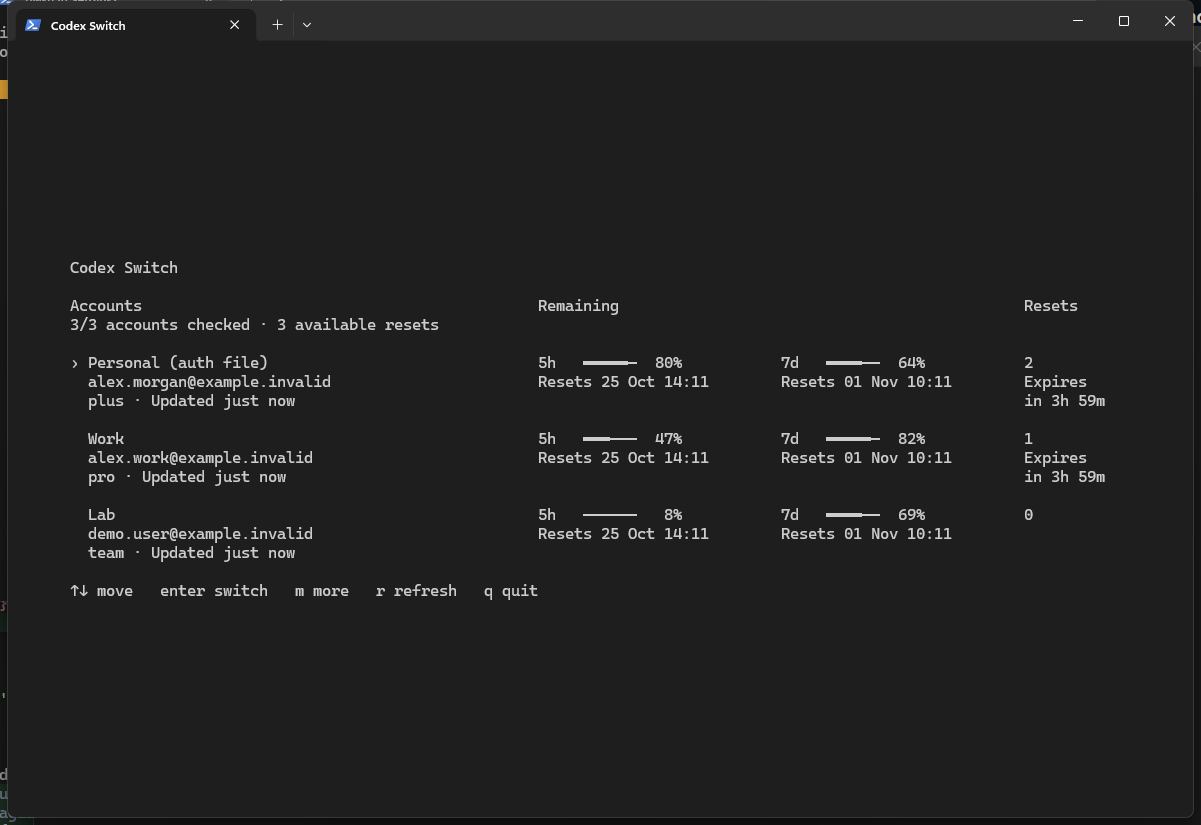
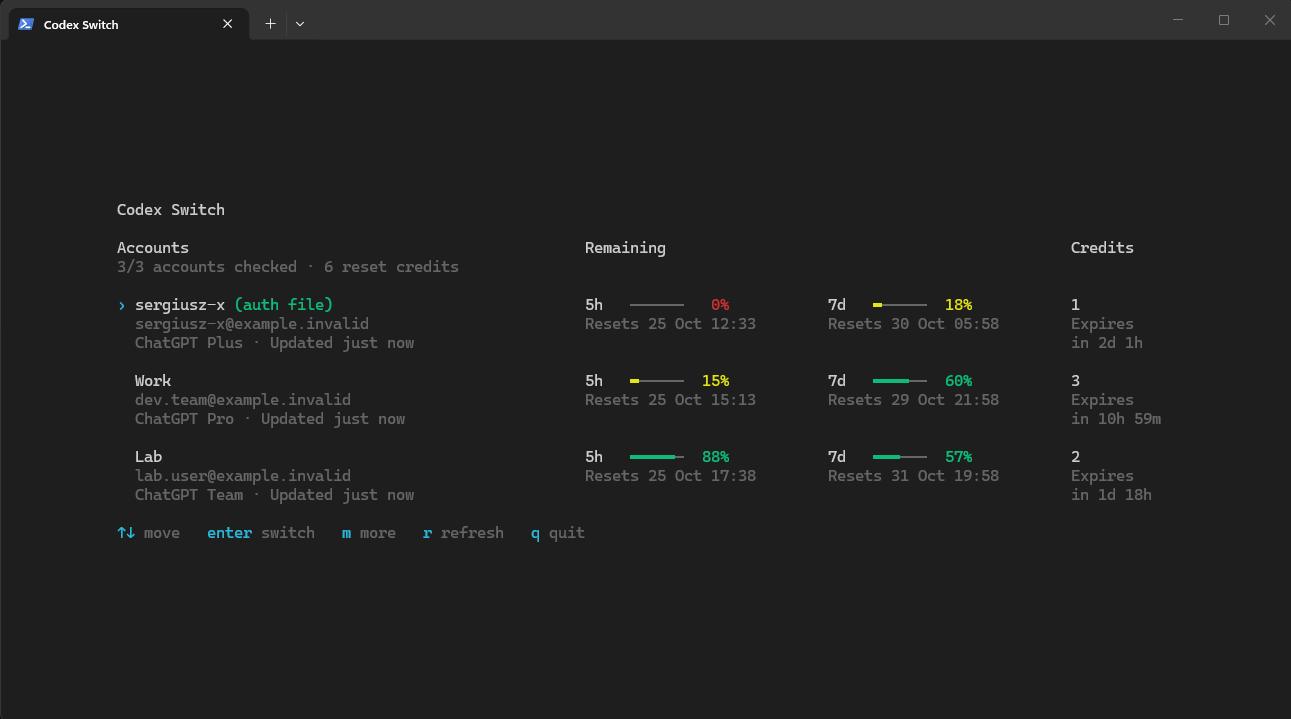
fix: clarify usage reset credits and refresh CLI screenshots
Clarifies quota reset times and credits, refreshes CLI screenshots, and enables the release workflow to push through a narrowly scoped repository deploy key.

diff --git a/internal/tui/usage.go b/internal/tui/usage.go
@@ -55,7 +55,7 @@ func (m *model) renderUsageDetail(width int) string {
 	}
 	rows = append(rows, "")
 	if result.ResetCountKnown {
-		rows = append(rows, lipgloss.NewStyle().Bold(true).Render(fmt.Sprintf("Available resets · %d", result.ResetCount)))
+		rows = append(rows, lipgloss.NewStyle().Bold(true).Render(fmt.Sprintf("Reset credits · %d", result.ResetCount)))
 		if !result.ResetDetailsKnown {
 			rows = append(rows, muted.Render("Reset details are unavailable."))
 		} else if len(result.Resets) == 0 {
@@ -82,7 +82,7 @@ func (m *model) renderUsageDetail(width int) string {
 			}
 		}
 	} else {
-		rows = append(rows, lipgloss.NewStyle().Bold(true).Render("Available resets"), muted.Render("Count unavailable."))
+		rows = append(rows, lipgloss.NewStyle().Bold(true).Render("Reset credits"), muted.Render("Count unavailable."))
 	}
 	if !result.UpdatedAt.IsZero() {
 		zone := time.Now().Format("MST -07:00")
@@ -143,7 +143,7 @@ func (m *model) renderDashboard(width, height int) string {
 		accountWidth := width - 66
 		header = lipgloss.JoinHorizontal(lipgloss.Top,
 			usageCell("Accounts", accountWidth), "  ",
-			usageCell("Remaining", 52), "  ", usageCell("Resets", 10))
+			usageCell("Remaining", 52), "  ", usageCell("Credits", 10))
 	}
 	rows := []string{lipgloss.NewStyle().Bold(true).Render(header), muted.Render(m.usageSummary(width)), ""}
 	blocks := make([]string, len(m.profiles))
@@ -216,9 +216,9 @@ func (m *model) renderAccountUsage(index int, profile switcher.Profile, width in
 			if len(result.Windows) == 0 {
 				rows = append(rows, muted.Render("  Quotas unavailable"))
 			}
-			resets := "Available resets: —"
+			resets := "Reset credits: —"
 			if result.ResetCountKnown {
-				resets = fmt.Sprintf("Available resets: %d", result.ResetCount)
+				resets = fmt.Sprintf("Reset credits: %d", result.ResetCount)
 				if expiry := usageResetExpiry(result, time.Now()); expiry != "" {
 					resets += " · " + expiry
 				}
@@ -306,7 +306,8 @@ func usageGauge(window switcher.UsageWindow) string {
 	}
 	bar := lipgloss.NewStyle().Foreground(lipgloss.Color(color)).Render(strings.Repeat("━", filled)) +
 		lipgloss.NewStyle().Foreground(lipgloss.Color("8")).Render(strings.Repeat("─", 6-filled))
-	return fmt.Sprintf("%-4s %s %3d%%", usageWindowLabel(window.Duration), bar, remaining)
+	percentage := lipgloss.NewStyle().Foreground(lipgloss.Color(color)).Render(fmt.Sprintf("%3d%%", remaining))
+	return fmt.Sprintf("%-4s %s %s", usageWindowLabel(window.Duration), bar, percentage)
 }
 
 func usageResetTime(window switcher.UsageWindow) string {
@@ -373,7 +374,7 @@ func (m *model) usageSummary(width int) string {
 		summary += fmt.Sprintf(" · %d unavailable", failed)
 	}
 	if resetAccounts > 0 {
-		summary += fmt.Sprintf(" · %d available resets", resets)
+		summary += fmt.Sprintf(" · %d reset credits", resets)
 		if resetAccounts < len(m.profiles) {
 			summary += fmt.Sprintf(" (%d/%d accounts)", resetAccounts, len(m.profiles))
 		}

diff --git a/internal/tui/usage_test.go b/internal/tui/usage_test.go
@@ -90,7 +90,7 @@ func TestDashboardShowsUsageAndSwitchTogetherAtDifferentSizes(t *testing.T) {
 			if lipgloss.Width(view) != size.width || lipgloss.Height(view) != size.height {
 				t.Fatalf("view exceeds terminal: %dx%d", lipgloss.Width(view), lipgloss.Height(view))
 			}
-			for _, text := range []string{"Account 0", "Account 1", "auth file", "person-0@example.invalid", "plus", "80%", "40%", "22 Oct 14:30", "3 available resets", "switch", "refresh", "more"} {
+			for _, text := range []string{"Account 0", "Account 1", "auth file", "person-0@example.invalid", "plus", "80%", "40%", "22 Oct 14:30", "3 reset credits", "switch", "refresh", "more"} {
 				if !strings.Contains(view, text) {
 					t.Errorf("dashboard missing %q", text)
 				}
@@ -123,7 +123,7 @@ func TestDashboardDoesNotTreatUnknownOrFailedReadsAsZero(t *testing.T) {
 	m.usageLoading = true
 	m.usageRead = map[string]bool{"account-0": true}
 	view := m.renderDashboard(116, 40)
-	for _, text := range []string{"2/4 accounts checked", "1 unavailable", "1 available resets (1/4 accounts)", "Loading", "Status unavailable", "Refreshing"} {
+	for _, text := range []string{"2/4 accounts checked", "1 unavailable", "1 reset credits (1/4 accounts)", "Loading", "Status unavailable", "Refreshing"} {
 		if !strings.Contains(view, text) {
 			t.Errorf("partial results missing %q", text)
 		}

diff --git a/internal/switcher/usage.go b/internal/switcher/usage.go
@@ -505,6 +505,16 @@ func planLabel(plan string) string {
 	if plan == "" || plan == "unknown" {
 		return ""
 	}
+	if strings.HasPrefix(plan, "chatgpt_") {
+		name := strings.TrimPrefix(plan, "chatgpt_")
+		words := strings.FieldsFunc(name, func(r rune) bool { return r == '_' || r == ' ' })
+		for i, word := range words {
+			if word != "" {
+				words[i] = strings.ToUpper(word[:1]) + word[1:]
+			}
+		}
+		return safeUsageText("ChatGPT "+strings.Join(words, " "), 80)
+	}
 	return safeUsageText(strings.ReplaceAll(plan, "_", " "), 80)
 }
 

diff --git a/internal/switcher/usage_test.go b/internal/switcher/usage_test.go
@@ -67,7 +67,7 @@ func TestAuthDisplayMetadataReadsOnlySyntheticClaims(t *testing.T) {
 		t.Fatal(err)
 	}
 	email, plan := authDisplayMetadata(raw)
-	if email != "person@example.invalid" || plan != "chatgpt pro" {
+	if email != "person@example.invalid" || plan != "ChatGPT Pro" {
 		t.Fatalf("got email %q and plan %q", email, plan)
 	}
 }

diff --git a/README.md b/README.md
@@ -4,12 +4,14 @@ Switch between saved ChatGPT accounts in Codex CLI.
 
 ## 👀 Preview
 
-Captured from the running CLI with synthetic accounts:
+Real CLI screens with synthetic account data.
 
 <p align="center">
-  <img src="docs/screenshots/dashboard.png" width="100%" alt="Codex Switch account list with synthetic usage data">
+  <strong>Accounts and usage</strong><br>
+  <img src="docs/screenshots/dashboard.png" width="100%" alt="Three accounts with remaining 5-hour and 7-day usage, reset times, and reset credits">
   <br><br>
-  <img src="docs/screenshots/more-options.png" width="100%" alt="Codex Switch account actions menu with synthetic profile data">
+  <strong>Account actions</strong><br>
+  <img src="docs/screenshots/more-options.png" width="100%" alt="Account menu with profile actions and usage details selected">
 </p>
 
 ## 📦 Install
@@ -62,8 +64,10 @@ Saved accounts contain credentials. Keep `%USERPROFILE%\.codex\switcher` on
 Windows or `~/.codex/switcher` on Linux private. Deleting a saved account does
 not sign Codex out or change its current login.
 
-Usage information is a snapshot and does not verify that a login is still valid.
-Set `CODEX_HOME` or use `--codex-home PATH` to use a different Codex home.
+Usage is a snapshot and does not verify that a login is still valid. Each quota
+window shows its own reset time in your local timezone. Reset credits are listed
+separately with their expiry. Set `CODEX_HOME` or use `--codex-home PATH` to use
+a different Codex home.
 
 ## 🛠 Development
 

diff --git a/docs/RELEASING.md b/docs/RELEASING.md
@@ -83,10 +83,12 @@ README; no GitHub login is needed.
 
 Draft-build, draft-asset verification, and finalization jobs need `contents: write`;
 GitHub does not expose draft release assets to read-only callers. Other verification
-jobs use read-only permissions. The built-in `GITHUB_TOKEN` is sufficient when repository rules
-allow the workflow to commit the release metadata and push tags. Actions are
-pinned to commit SHAs, and the Node.js release dependencies are locked. CI does
-not need Codex account credentials or other application secrets.
+jobs use read-only permissions. The release job uses the `RELEASE_DEPLOY_KEY`
+repository secret to push the version commit and tag through the narrow `main`
+update ruleset. The built-in `GITHUB_TOKEN` creates and verifies the draft assets.
+Rotate the deploy key and secret together. Actions are pinned to commit SHAs, and
+the Node.js release dependencies are locked. CI does not need Codex account
+credentials or other application secrets.
 
 If a tag was created but publication failed, run the workflow manually with the
 existing `release_tag` (for example, `v1.0.0`). Recovery accepts only the newest
